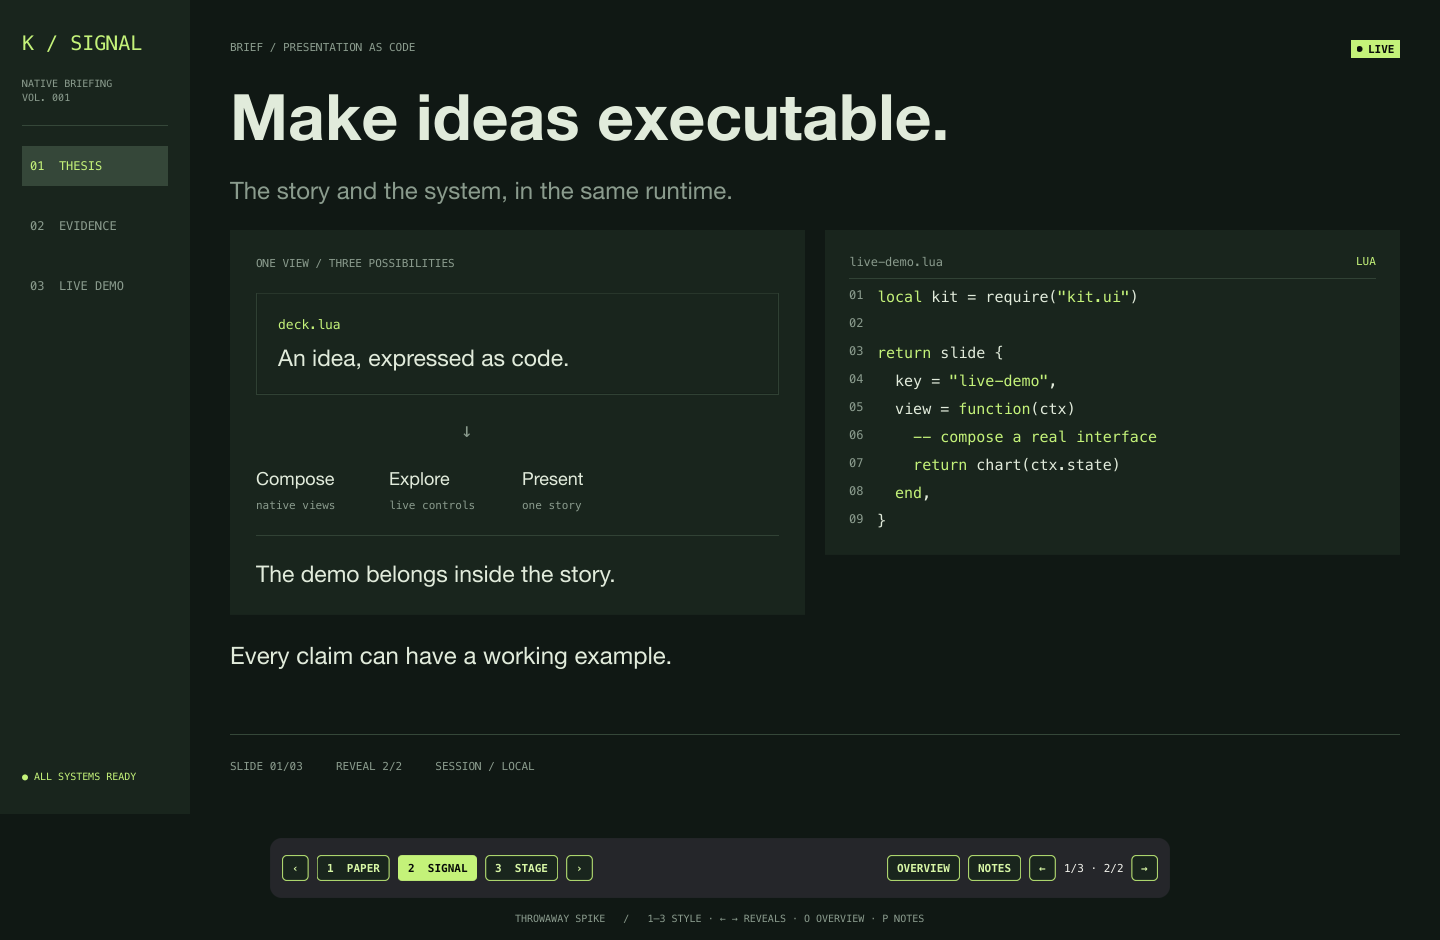
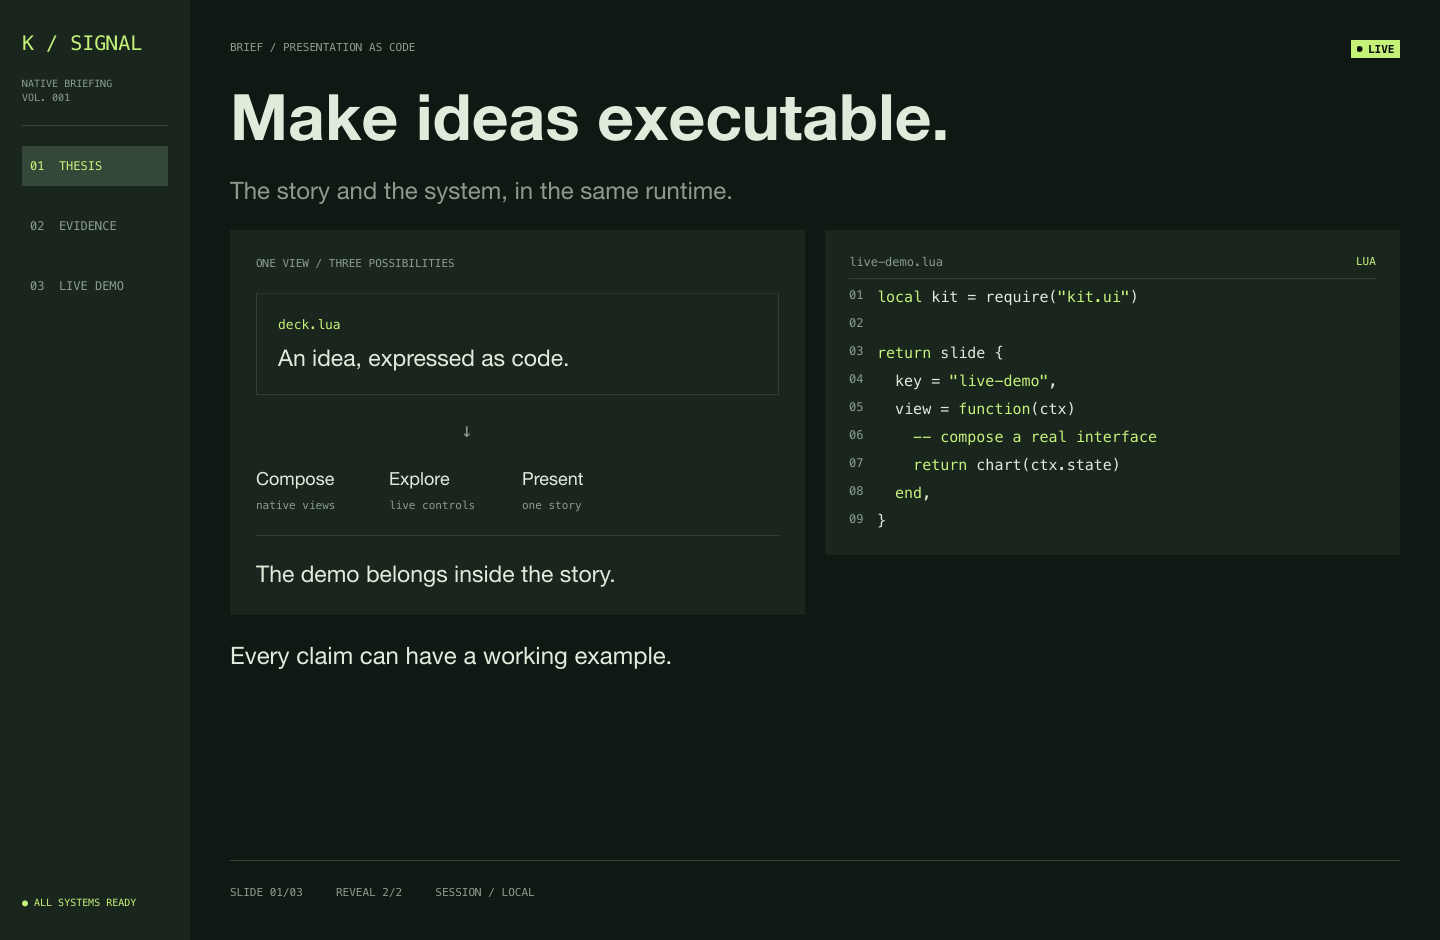
spike(kit): add Minimal and separate themes from layouts

diff --git a/addons/kit/samples/presentation-prototype/README.md b/addons/kit/samples/presentation-prototype/README.md
@@ -1,8 +1,9 @@
 # Presentation style prototype — throwaway
 
 Question: which visual hierarchy, density and interaction feel should Kit's
-presentation tools support? Three structurally different native variants
+presentation tools support? Four structurally different native presets
 render the same three-slide story using today's Kit and kui primitives.
+Their themes and layouts can now be selected independently.
 
 ```bash
 cargo run -p kui-cli -- run addons/kit/samples/presentation-prototype
@@ -17,13 +18,17 @@ kui run --watch addons/kit/samples/presentation-prototype
 - **Paper**: an editorial spread, serif hierarchy and generous margins.
 - **Signal**: a technical briefing with chapter navigation and data first.
 - **Stage**: an asymmetric composition with oversized type and one visual.
+- **Minimal**: a quiet reading column with plain typography, whitespace
+  and very little framing.
 
 Captured directions: [Paper](shots/paper.png), [Signal](shots/signal.png),
-[Stage](shots/stage.png). The data and throughput model are illustrative,
+[Stage](shots/stage.png), [Minimal](shots/minimal.png),
+[all four](shots/directions.png). The data and throughput model are illustrative,
 not benchmark results.
 
-The floating bar switches styles without changing the slide or demo state.
-Keys: **1–3** style, **←/→** or **Space** reveals, **O** overview, **P** notes.
+The floating bar switches presets without changing slide or demo state.
+Keys: **1–4** preset, **T** theme, **L** layout, **H** hide/show prototype
+controls, **←/→** or **Space** reveals, **O** overview, **P** notes.
 The slider and Run button are real Kit controls; the chart has a real
 pointer/keyboard readout. Actions print the current state to the runner.
 
@@ -31,9 +36,16 @@ Reproducible starting points and captures:
 
 ```bash
 kui run addons/kit/samples/presentation-prototype -- --variant signal --slide 2 --step 2
+kui run addons/kit/samples/presentation-prototype -- --variant minimal
+kui run addons/kit/samples/presentation-prototype -- --theme paper --layout split
 kui run addons/kit/samples/presentation-prototype --shot /tmp/paper.png --size 1440x940 -- --variant paper
 kui run addons/kit/samples/presentation-prototype --shot /tmp/stage-live.png --size 1440x940 -- --variant stage --slide 3 --step 1
 ```
+
+Layout keys are `editorial`, `briefing`, `split`, and `minimal`; the original
+variant names also work as layout aliases. `--clean` starts without the
+prototype controls, for viewing/capturing the composition alone; **H**
+brings the controls back.
 
 This is a visual study, not the agreed presentation API. It has no
 persistence, actual presenter window, fullscreen/display control, managed
@@ -43,14 +55,15 @@ the base Kit improvements; the small output block is today's `kit.code`.
 Text-only reveal placeholders use opacity and do not implement the future
 general accessibility-safe visibility contract.
 
-Preserve the full prototype on `codex/presentation-style-spike`. Record the
-chosen direction and why in the design draft after user review; no winner
-has been selected yet. Rewrite validated ideas for production rather than
+Preserve the full prototype on `codex/presentation-style-spike`. The user
+found value in all original directions and requested Minimal. The design
+draft records a theme/layout distinction so these can become independently
+usable Kit features. Rewrite validated ideas for production rather than
 promoting this spike directly.
 
-## Observations before user review
+## Observations and review
 
-All three directions render with the real native runner. Wide captures,
+All four directions render with the real native runner. Wide captures,
 a narrow reflow capture, code/live-control views and the notes-panel
 composition were inspected; the final capture runs reported no warnings.
 Syntax checking and `git diff --check` pass. No production test suite is
@@ -61,3 +74,5 @@ small tool-window typography; larger syntax-coloured code currently needs
 local drawing; adaptive composition works without a fixed canvas. These
 are implementation observations, not a user's stylistic verdict. The
 public authoring interface still needs to be implemented and evaluated.
+Minimal's text, chart and demo compositions, narrow reflow, and a mixed
+Paper-theme/split-layout composition were also rendered and inspected.

diff --git a/docs/adr/drafts/kit-presentations-as-code.md b/docs/adr/drafts/kit-presentations-as-code.md
@@ -11,11 +11,12 @@ shared understanding. This record does not describe an implemented feature.
 
 The user requested a visual spike before production implementation.
 [The throwaway native prototype](../../../addons/kit/samples/presentation-prototype/README.md)
-compares Paper, Signal and Stage compositions on branch
+compares Paper, Signal, Stage and Minimal compositions on branch
 `codex/presentation-style-spike`. It exercises real Kit charts, controls,
-adaptive layout and reveal navigation. No visual direction has been
-selected; the proposed public interface below is not implemented by the
-spike.
+adaptive layout and reveal navigation. The user found value in every
+original direction and requested a minimalistic addition. The spike now
+allows theme and layout to be selected independently. The proposed public
+interface below is not implemented by the spike.
 
 ## Context
 
@@ -92,6 +93,8 @@ as code using Kit.
   on macOS and Ctrl+Shift+P elsewhere. It opens or focuses the presenter
   window from either presentation window. Closing either window leaves
   the session alive while another remains; closing the last ends it.
+- Preserve Paper, Signal and Stage as useful design directions rather
+  than picking a single winner, and add a Minimal direction.
 
 This preserves the ability to generate content programmatically and reuse
 application views. A constrained slide description or Markdown format
@@ -140,6 +143,39 @@ preset supplies common title/section composition rather than overloading
 the existing collapsible `section`. Extend `stat` for large-number
 compositions and `code` for syntax highlighting and line emphasis rather
 than introducing parallel components for the same content.
+
+#### Themes and layout presets
+
+Proposed result of the visual spike: retain all four directions as
+reusable themes and supply matching layout defaults through style presets.
+Themes belong to base Kit content and its gallery, so ordinary apps can
+use them too. A theme selects colours, content typography and visual
+rhythm; a layout preset selects content arrangement and adaptive behavior.
+Selecting a named style preset is a convenient way to choose both, with
+independent overrides afterward.
+
+Here, theme means a content theme. It does not redefine the core's
+existing `Theme` palette type.
+
+| Style preset | Theme | Matching layout preset |
+| --- | --- | --- |
+| Paper | Quiet paper tones and editorial serif typography. | Editorial spread. |
+| Signal | Technical typography, dark green surfaces and restrained lime. | Briefing with navigation and evidence first. |
+| Stage | Strong contrast and a warm accent. | Asymmetric split with a dominant visual. |
+| Minimal | Quiet sans-serif typography, whitespace and little framing. | Focused reading column. |
+
+For example, Paper's theme can accompany the split layout, or Minimal's
+theme can accompany a chart-led briefing. A theme change must not rewrite
+a slide's structure, navigation or demo state. Layout defaults apply to
+templated content regions; arbitrary authored views retain their explicit
+structure. Existing Ledger, Phosphor and Neutral skins remain the control
+and tool-surface treatment. A preset may choose a matching skin default,
+but content theming must not force large type onto presenter controls.
+
+The spike currently varies palette, face and skin independently from four
+render functions. Production themes additionally need configurable type
+scales, content spacing, code colours and chart readability. This does not
+introduce a new browser renderer or change the adaptive-layout default.
 
 All components retain useful defaults for regular applications. Reading
 sizes, spacing, alignment, colours and content presets are configurable;

diff --git a/GLOSSARY.md b/GLOSSARY.md
@@ -135,6 +135,27 @@ The text a view declares for an editor on every frame. When it differs
 from the editor's text, the editor is brought to it.
 _Avoid_: controlled text, model text
 
+## Kit styling
+
+**Skin**:
+Kit's visual treatment of controls and tool surfaces, including their
+shapes, borders and label conventions.
+_Avoid_: content theme
+
+**Content theme**:
+A reusable look for Kit content: its colours, typography and visual
+rhythm, independent of the arrangement of content.
+_Avoid_: layout preset, skin
+
+**Layout preset**:
+A reusable arrangement of content regions and their adaptive behavior.
+_Avoid_: theme
+
+**Style preset**:
+A named pairing of a content theme and a layout preset whose parts remain
+independently selectable.
+_Avoid_: theme (when the arrangement is also being selected)
+
 ## Presentations
 
 **Deck**:
